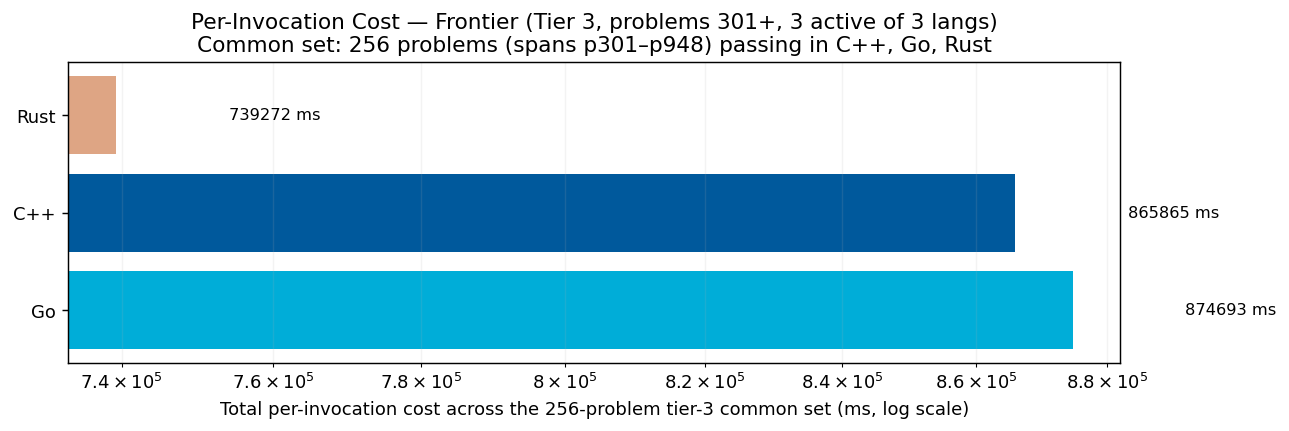
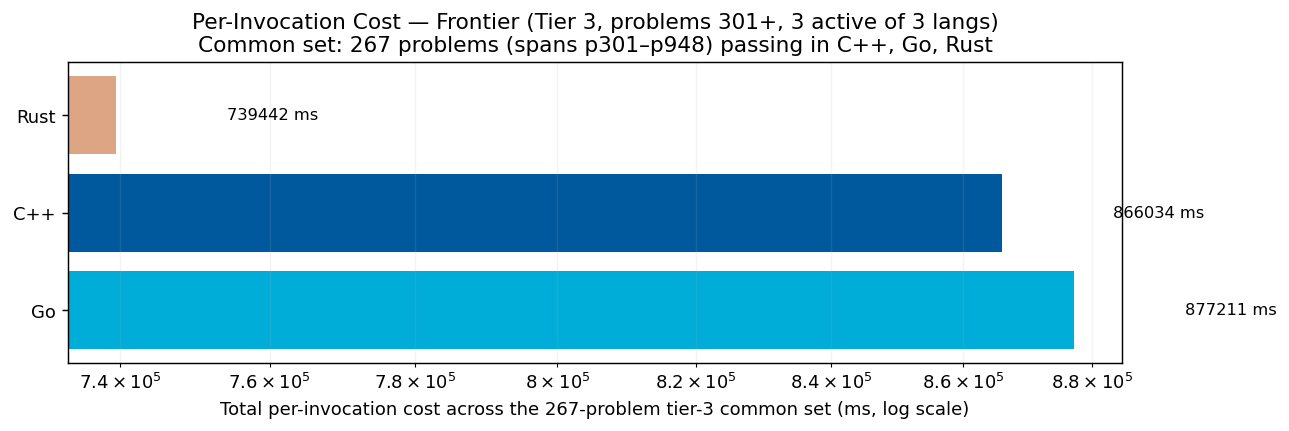
bench 501-600 rust backfill + go fill-in: +22 rows (11 problems, 3-way verified)

diff --git a/per_problem/per_problem_501-600.md b/per_problem/per_problem_501-600.md
@@ -21,7 +21,7 @@ column per language in tier-1 display order (native → managed → interpreted)
 | **p512** | 15.91 ms | — | — |
 | **p513** | — | 51.82 s* | 58.86 s* |
 | **p514** | 452.43 ms | — | — |
-| **p515** | 1.11 ms | — | — |
+| **p515** | 1.11 ms | 805.9 µs | 887.3 µs |
 | **p516** | 58.59 ms | — | — |
 | **p517** | 546.84 ms | — | — |
 | **p518** | 2.38 s | — | — |
@@ -34,25 +34,25 @@ column per language in tier-1 display order (native → managed → interpreted)
 | **p525** | 343.1 µs | — | — |
 | **p526** | — | — | — |
 | **p527** | 11.6 µs | — | — |
-| **p528** | 4.10 ms | — | — |
+| **p528** | 4.10 ms | 5.25 ms | 673.5 µs |
 | **p529** | 1.20 s | — | — |
 | **p530** | 513.33 ms | — | — |
 | **p531** | 667.20 ms | — | — |
 | **p532** | 160.48 ms | — | — |
 | **p533** | 301.51 ms | — | — |
 | **p534** | 8.07 s | — | — |
-| **p535** | 125.44 ms | — | — |
+| **p535** | 125.44 ms | 134.46 ms | 1.25 s |
 | **p536** | 16.43 s | — | — |
 | **p537** | 6.01 s | — | — |
 | **p538** | 9.35 s | — | — |
-| **p539** | 10.8 µs | — | — |
+| **p539** | 10.8 µs | 9.7 µs | 60.5 µs |
 | **p540** | 1.08 s | — | — |
-| **p541** | 4.99 ms | — | — |
-| **p542** | 3.07 ms | — | — |
-| **p543** | 14.70 ms | — | — |
+| **p541** | 4.99 ms | 7.66 ms | 6.52 ms |
+| **p542** | 3.07 ms | 1.60 ms | 739.03 ms |
+| **p543** | 14.70 ms | 16.70 ms | 20.96 ms |
 | **p544** | 7.66 s | — | — |
 | **p545** | 3.53 s | — | — |
-| **p546** | 294.6 µs | — | — |
+| **p546** | 294.6 µs | 263.3 µs | 7.04 ms |
 | **p547** | 258.40 ms | — | — |
 | **p548** | 5.55 s | — | — |
 | **p549** | 1.26 s | — | — |
@@ -61,20 +61,20 @@ column per language in tier-1 display order (native → managed → interpreted)
 | **p552** | 458.34 ms | — | 918.43 ms |
 | **p553** | 2.17 s | — | 2.21 s |
 | **p554** | 1.28 s | — | — |
-| **p555** | 15.04 ms | — | — |
+| **p555** | 15.04 ms | 2.71 ms | 620.0 µs |
 | **p556** | 169.17 ms | — | — |
 | **p557** | 3.95 s | — | — |
 | **p558** | 8.93 s | — | — |
 | **p559** | 900.41 ms | — | — |
 | **p560** | 376.65 ms | — | — |
-| **p561** | 84 ns | — | — |
+| **p561** | 84 ns | 42 ns | 1.2 µs |
 | **p562** | 24.37 s | — | — |
 | **p563** | 1.12 s | 26.14 s | 20.08 s* |
 | **p564** | 13.37 s | 11.40 s | 18.36 s* |
 | **p565** | 357.11 ms | — | — |
 | **p566** | — | — | — |
 | **p567** | 944.91 ms | — | — |
-| **p568** | 250 ns | — | — |
+| **p568** | 250 ns | 42 ns | 495.57 ms |
 | **p569** | — | — | 3.61 s |
 | **p570** | — | — | — |
 | **p571** | 3.30 s | — | — |

diff --git a/RESULTS.md b/RESULTS.md
@@ -1,6 +1,6 @@
 # Project Euler — Cross-Language Benchmarks
 
-> **Scope: 4600 in-scope cells across 1000 problems × tiered languages — 3389 measured (73.7% coverage).**
+> **Scope: 4600 in-scope cells across 1000 problems × tiered languages — 3411 measured (74.2% coverage).**
 > The cross-language ranking below is computed over the **200-problem common set** (problems in 1-200 where every language has a passing measurement) — the apples-to-apples Foundation comparison surface.  Per-tier rankings and coverage detail appear further below.
 > Growing carefully — each new problem and language is audited for state-leak
 > safety, verified for answer correctness, and added only when it cleanly fits the
@@ -68,15 +68,15 @@ Same scatter as the Foundation chart, restricted to the tier-2 active languages 
 
 The frontier verification trio — C++, Go, Rust — on problems above 300. 3-way cross-language agreement is the verification protocol (strictly stronger than 2-way; see JOURNEY.md "Tier Reframing" episode for the p254 lesson that motivated it). Python and Zig are explicitly out of this tier — python's wall cost makes it impractical at level 5+, and zig's role caps at Tier 2.
 
-### Per-Invocation Cost (Common Set, 256 of ≤700 problems in scope)
+### Per-Invocation Cost (Common Set, 267 of ≤700 problems in scope)
 
 ![Per-Invocation Cost — Tier 3](charts/per_iter_total_tier3.png)
 
-| Rank | Language | Total (256-problem common set) | Lines of code | vs Fastest |
+| Rank | Language | Total (267-problem common set) | Lines of code | vs Fastest |
 |------|----------|--------------------:|--------------:|-----------:|
-| 1 | **Rust** | 739.27 s | 31,024 | 1.00× |
-| 2 | **C++** | 865.87 s | 28,423 | 1.17× |
-| 3 | **Go** | 874.69 s | 32,476 | 1.18× |
+| 1 | **Rust** | 739.44 s | 32,371 | 1.00× |
+| 2 | **C++** | 866.03 s | 29,559 | 1.17× |
+| 3 | **Go** | 877.21 s | 34,090 | 1.19× |
 
 ### Speed vs Code Size
 
